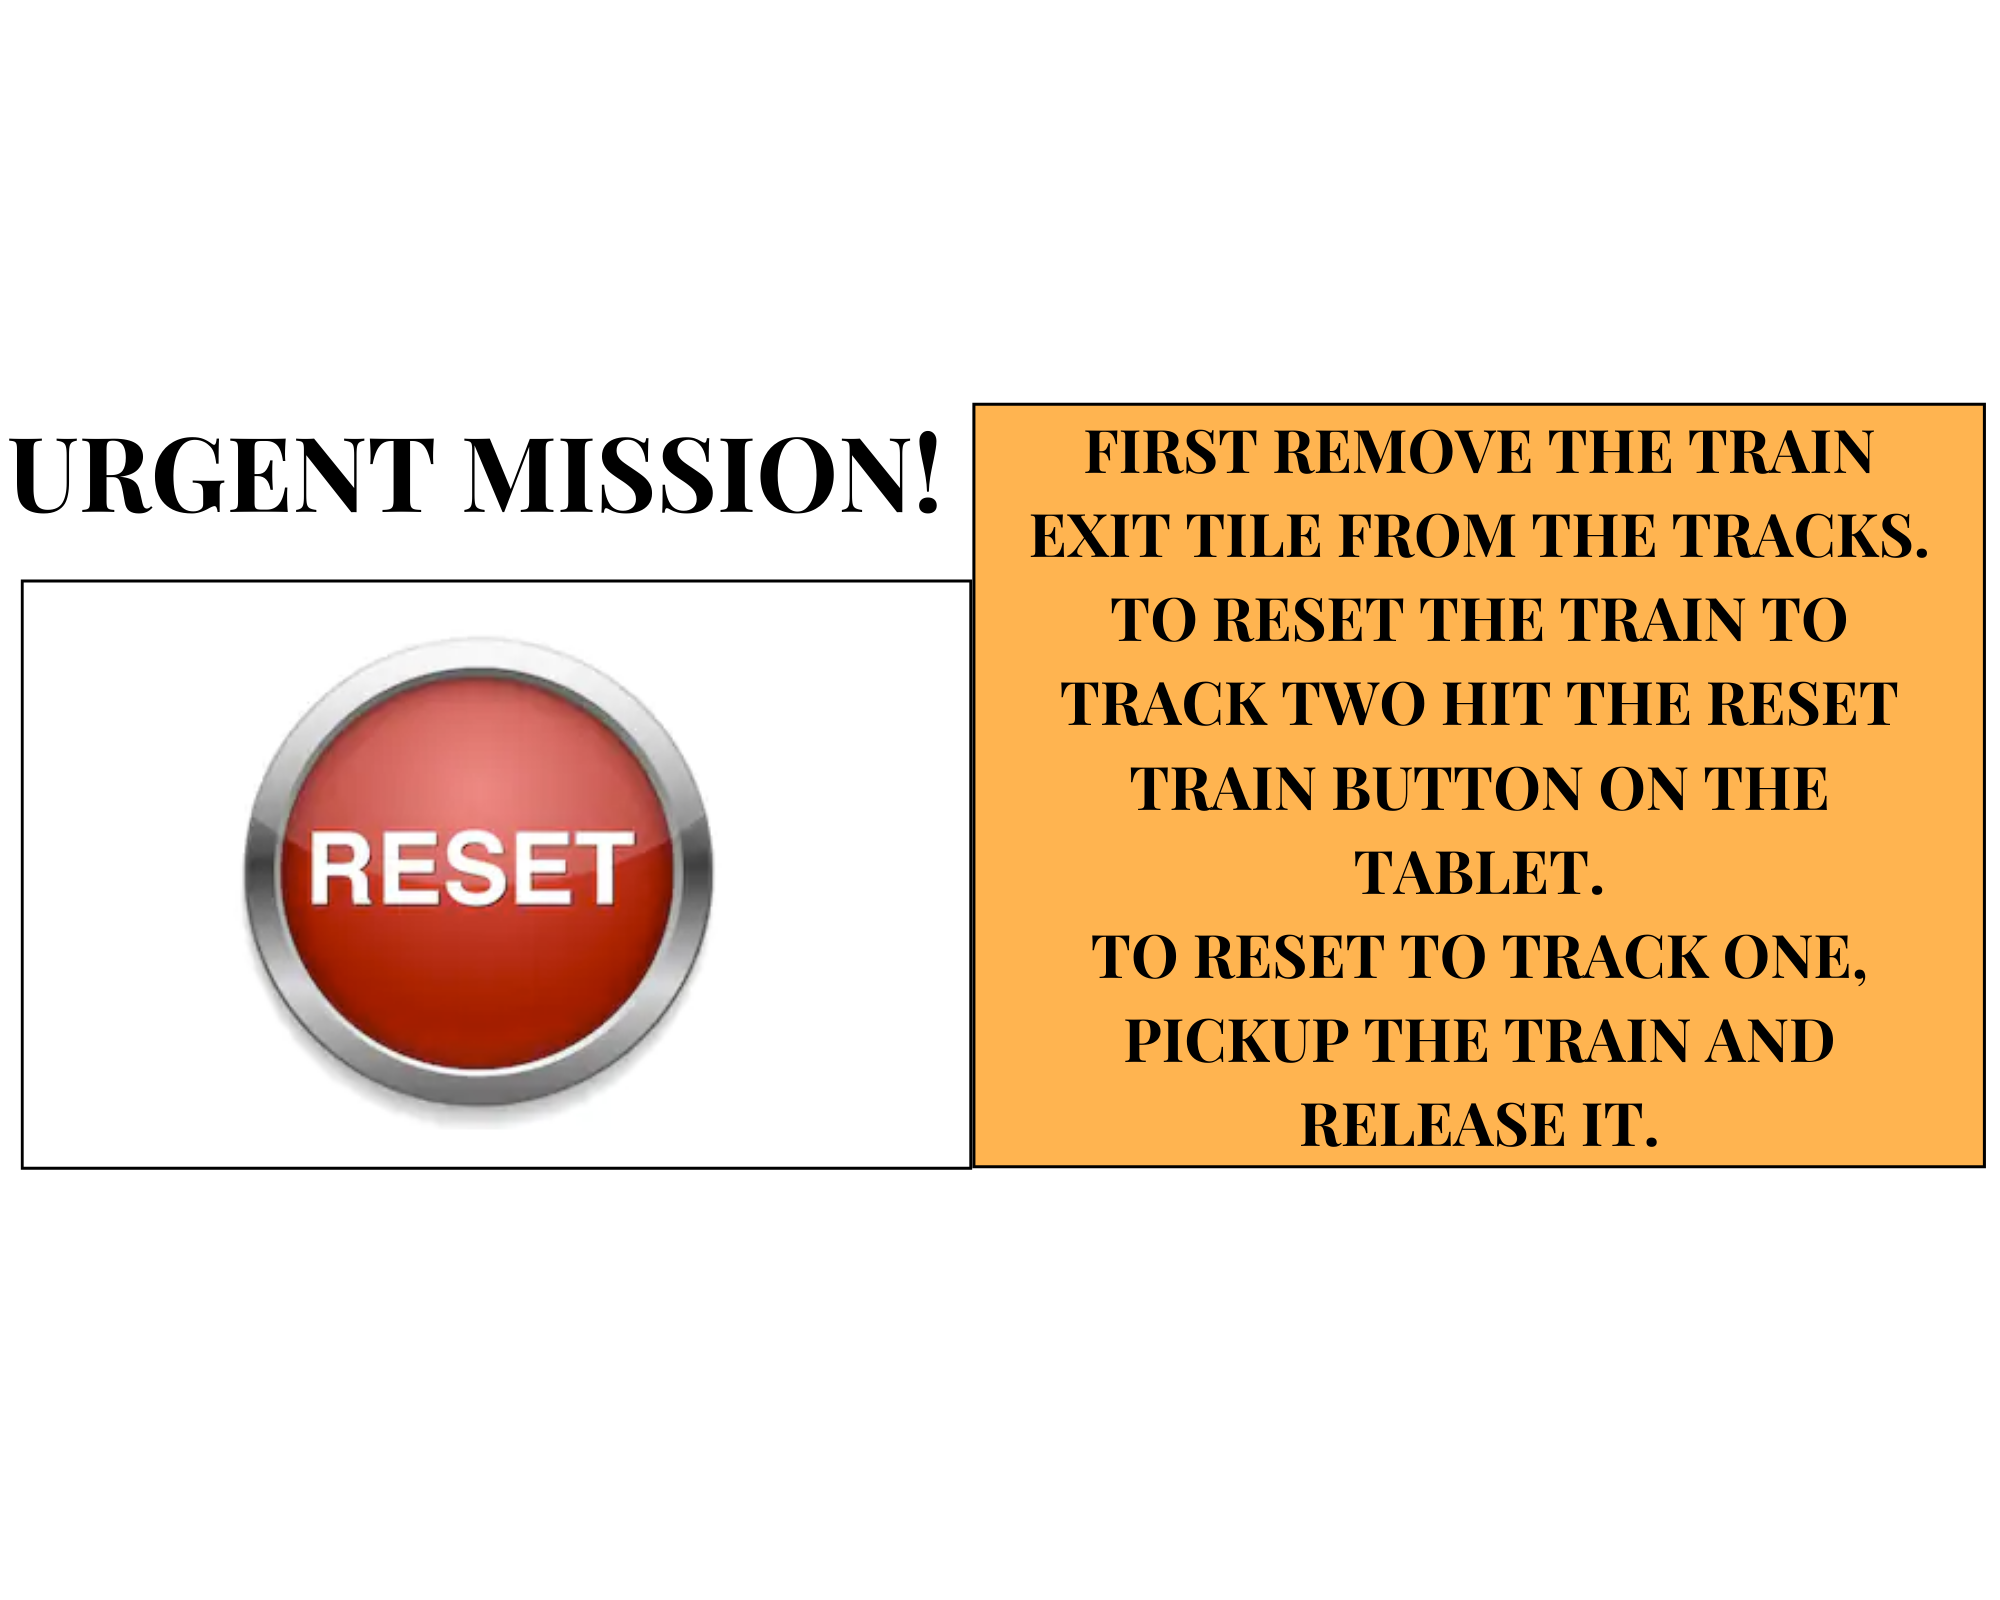
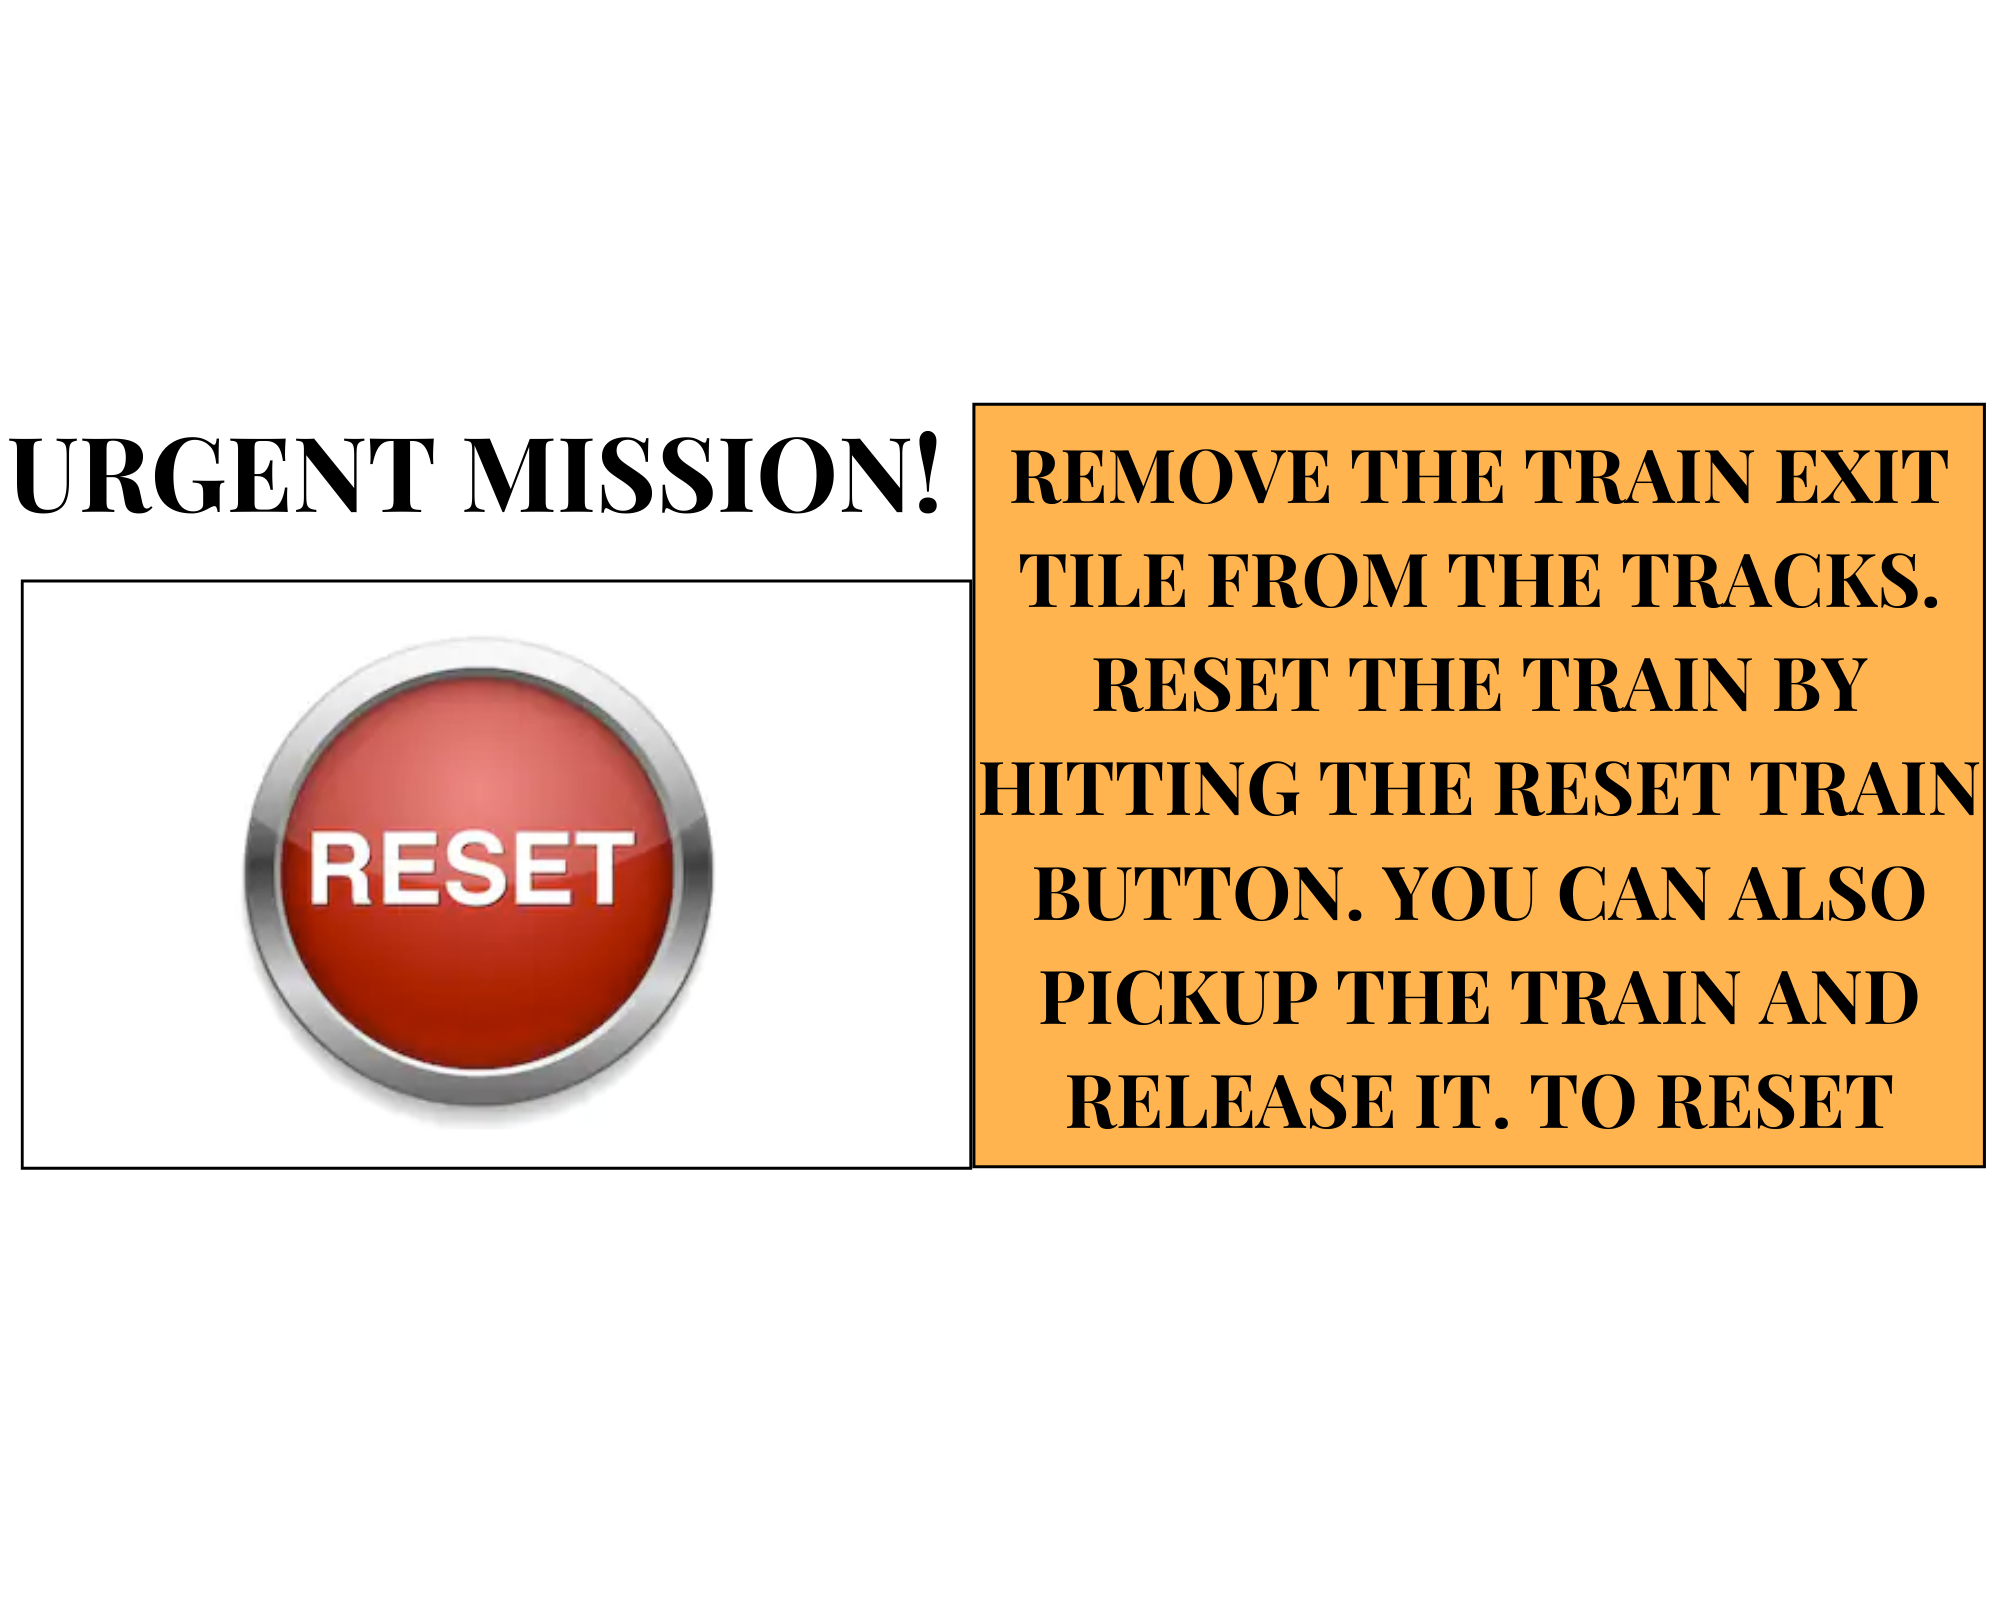
Changed how the train resets and removed the second track and train station

Changed region(s): [[0.496, 0.25, 0.992, 0.7188]]

diff --git a/Assets/Scripts/ResetTrain.cs b/Assets/Scripts/ResetTrain.cs
@@ -6,7 +6,6 @@ public class ResetTrain : MonoBehaviour
 {
 
     public Transform startPos; // reference to the starting position transform fo rthe train
-    public GameObject train; // reference to the train
     public bool firstTimeTrainReset;
 
     /// <summary>
@@ -15,10 +14,8 @@ public class ResetTrain : MonoBehaviour
     /// </summary>
     public void ResetTrainPrefab()
     {
-        train.transform.position = startPos.transform.position; // set the trains transform position to the starting position transform's position
-        train.transform.rotation = startPos.transform.rotation; // set the trains transform rotation to the starting position transform's rotation
-        train.SetActive(false); // disable the train parent and all childs
-        train.SetActive(true); // re-enable the train parent and all childs
+        gameObject.transform.position = startPos.transform.position; // set the trains transform position to the starting position transform's position
+        gameObject.transform.rotation = startPos.transform.rotation; // set the trains transform rotation to the starting position transform's rotation
         firstTimeTrainReset = true;
     }
 }

diff --git a/Assets/Scripts/TrainExitTile.cs b/Assets/Scripts/TrainExitTile.cs
@@ -20,7 +20,7 @@ public class TrainExitTile : MonoBehaviour
 
     void OnTriggerEnter(Collider other)
     {
-        if (other.CompareTag("BuildPlatform"))
+        if (other.CompareTag("TilePlatform"))
         {
             buildPlatformInRange = true;
         }
@@ -43,7 +43,7 @@ public class TrainExitTile : MonoBehaviour
             trainExitTilePlaced = false;
         }
 
-        if (other.CompareTag("BuildPlatform"))
+        if (other.CompareTag("TilePlatform"))
         {
             buildPlatformInRange = false;
         }
